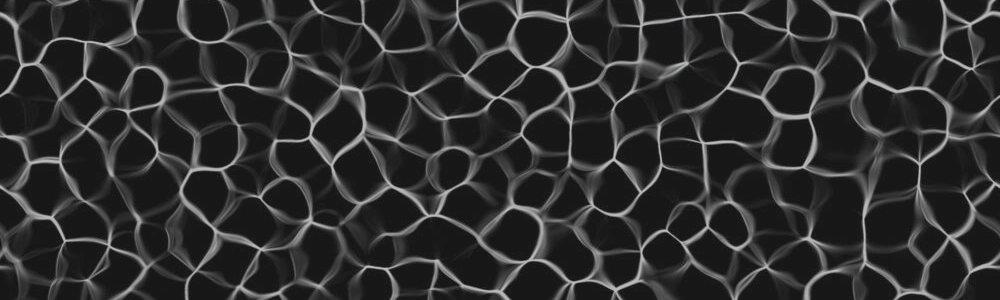
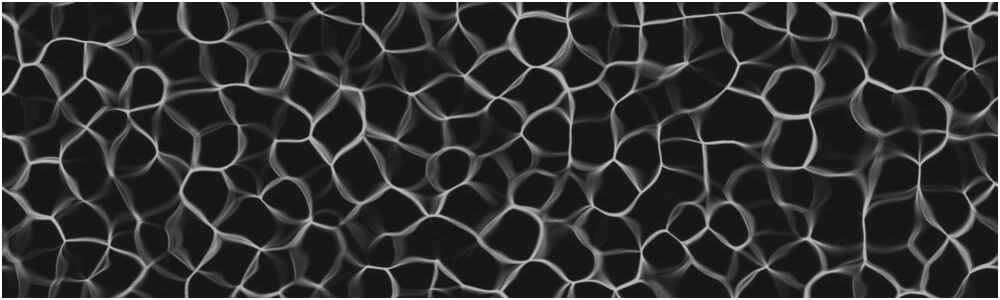
Hotspring bug fixes

Changed region(s): [[0.0, 0.0, 1.0, 1.0]]

diff --git a/Content/CustomHooks/Visuals.HotspringMapTarget.cs b/Content/CustomHooks/Visuals.HotspringMapTarget.cs
@@ -8,6 +8,7 @@ using Microsoft.Xna.Framework.Graphics;
 using StarlightRiver.Content.Bosses.SquidBoss;
 using StarlightRiver.Content.Tiles.Underground;
 using Terraria;
+using static Terraria.Utils;
 
 namespace StarlightRiver.Content.CustomHooks
 {
@@ -52,7 +53,7 @@ namespace StarlightRiver.Content.CustomHooks
             graphics.SetRenderTarget(hotspringMapTarget);
 
             graphics.Clear(Color.Transparent);
-            Main.spriteBatch.Begin(default, BlendState.Additive, default, default, default, default, Main.GameViewMatrix.ZoomMatrix);
+            Main.spriteBatch.Begin(default, BlendState.Additive, default, default, default, default);
 
             for (int k = 0; k < Main.maxProjectiles; k++)
             {
@@ -65,7 +66,8 @@ namespace StarlightRiver.Content.CustomHooks
             graphics.SetRenderTarget(null);
 
 
-
+            //if (Main.renderCount == 3)//
+            //{
             Main.spriteBatch.Begin(default, BlendState.Additive, SamplerState.PointWrap, default, default);
 
             Main.graphics.GraphicsDevice.SetRenderTarget(hotspringShineTarget);
@@ -73,14 +75,18 @@ namespace StarlightRiver.Content.CustomHooks
 
             Texture2D tex2 = Terraria.ModLoader.ModContent.GetTexture("StarlightRiver/Assets/Misc/HotspringWaterMap");
 
+            //The seam issue is not in this file, See StarlightRiver.cs and enable the commented out PostDrawInterface hook to view RTs
             for (int i = -tex2.Width; i <= Main.screenWidth + tex2.Width; i += tex2.Width)
                 for (int j = -tex2.Height; j <= Main.screenHeight + tex2.Height; j += tex2.Height)
                 {
-                    var pos = (new Vector2(i, j) - new Vector2(Main.screenPosition.X % tex2.Width, Main.screenPosition.Y % tex2.Height));
+                    //the divide by 1.3 and 1.5 are what keep the tile tied to the world location, seems to be tied to the 2 magic numbers in HotspringAddon.cs
+                    Vector2 pos = (new Vector2(i, j) - new Vector2((Main.screenPosition.X / 1.3f) % tex2.Width, (Main.screenPosition.Y / 1.5f) % tex2.Height));
                     Main.spriteBatch.Draw(tex2, pos, null, Color.White);
                 }
 
             Main.spriteBatch.End();
+            //}
+
             Main.graphics.GraphicsDevice.SetRenderTarget(null);
         }
     }

diff --git a/Content/Waters/WaterAddons/HotspringAddon.cs b/Content/Waters/WaterAddons/HotspringAddon.cs
@@ -1,4 +1,5 @@
-using Microsoft.Xna.Framework.Graphics;
+using Microsoft.Xna.Framework;
+using Microsoft.Xna.Framework.Graphics;
 using StarlightRiver.Content.CustomHooks;
 using StarlightRiver.Content.Tiles.Underground;
 using System;
@@ -22,15 +23,14 @@ namespace StarlightRiver.Content.Waters.WaterAddons
 
 		public override void SpritebatchChange()
 		{
-			/*Main.spriteBatch.Begin();
+            /*Main.spriteBatch.Begin();
 			Main.spriteBatch.Draw(HotspringMapTarget.hotspringShineTarget, Microsoft.Xna.Framework.Vector2.Zero, Microsoft.Xna.Framework.Color.White);
 			Main.spriteBatch.End();*/
-
 			var effect = Filters.Scene["HotspringWater"].GetShader().Shader;
 			effect.Parameters["sampleTexture2"].SetValue(HotspringMapTarget.hotspringMapTarget);
 			effect.Parameters["sampleTexture3"].SetValue(HotspringMapTarget.hotspringShineTarget);
 			effect.Parameters["time"].SetValue(Main.GameUpdateCount / 20f);
-			effect.Parameters["offset"].SetValue((Main.screenPosition - Main.sceneWaterPos) / Helpers.Helper.ScreenSize);
+			effect.Parameters["offset"].SetValue((Main.screenPosition - Main.sceneWaterPos) / (Helpers.Helper.ScreenSize * new Vector2(1.3f, 1.5f)));
 
 			Main.spriteBatch.Begin(default, default, default, default, default, effect, Main.GameViewMatrix.ZoomMatrix);
 		}
@@ -41,7 +41,8 @@ namespace StarlightRiver.Content.Waters.WaterAddons
 			effect.Parameters["sampleTexture2"].SetValue(HotspringMapTarget.hotspringMapTarget);
 			effect.Parameters["sampleTexture3"].SetValue(HotspringMapTarget.hotspringShineTarget);
 			effect.Parameters["time"].SetValue(Main.GameUpdateCount / 20f);
-			effect.Parameters["offset"].SetValue((Main.screenPosition - Main.sceneBackgroundPos) / Helpers.Helper.ScreenSize);
+			//the multiply by 1.3 and 1.5 seem to fix the jittering when moving, seems to be tied to the 2 magic numbers in Visuals.HotspringMapTarget.cs
+			effect.Parameters["offset"].SetValue((Main.screenPosition - Main.sceneBackgroundPos) / (Helpers.Helper.ScreenSize * new Vector2(1.3f, 1.5f)));
 
 			Main.spriteBatch.Begin(default, default, default, default, default, effect, Main.GameViewMatrix.ZoomMatrix);
 		}

diff --git a/StarlightRiver.cs b/StarlightRiver.cs
@@ -31,6 +31,13 @@ namespace StarlightRiver
 
         public bool HasLoaded;
 
+        //debug hook to view RTs
+        //public override void PostDrawInterface(SpriteBatch spriteBatch)
+        //{
+        //    spriteBatch.Draw(Content.CustomHooks.HotspringMapTarget.hotspringMapTarget, new Rectangle(0, 0, Main.screenWidth / 4, Main.screenHeight / 4), Color.White);
+        //    spriteBatch.Draw(Content.CustomHooks.HotspringMapTarget.hotspringShineTarget, new Rectangle(Main.screenWidth - (Main.screenWidth / 4), 0, Main.screenWidth / 4, Main.screenHeight / 4), Color.White);
+        //}
+
         public static StarlightRiver Instance { get; set; }
 
         public StarlightRiver() => Instance = this;
